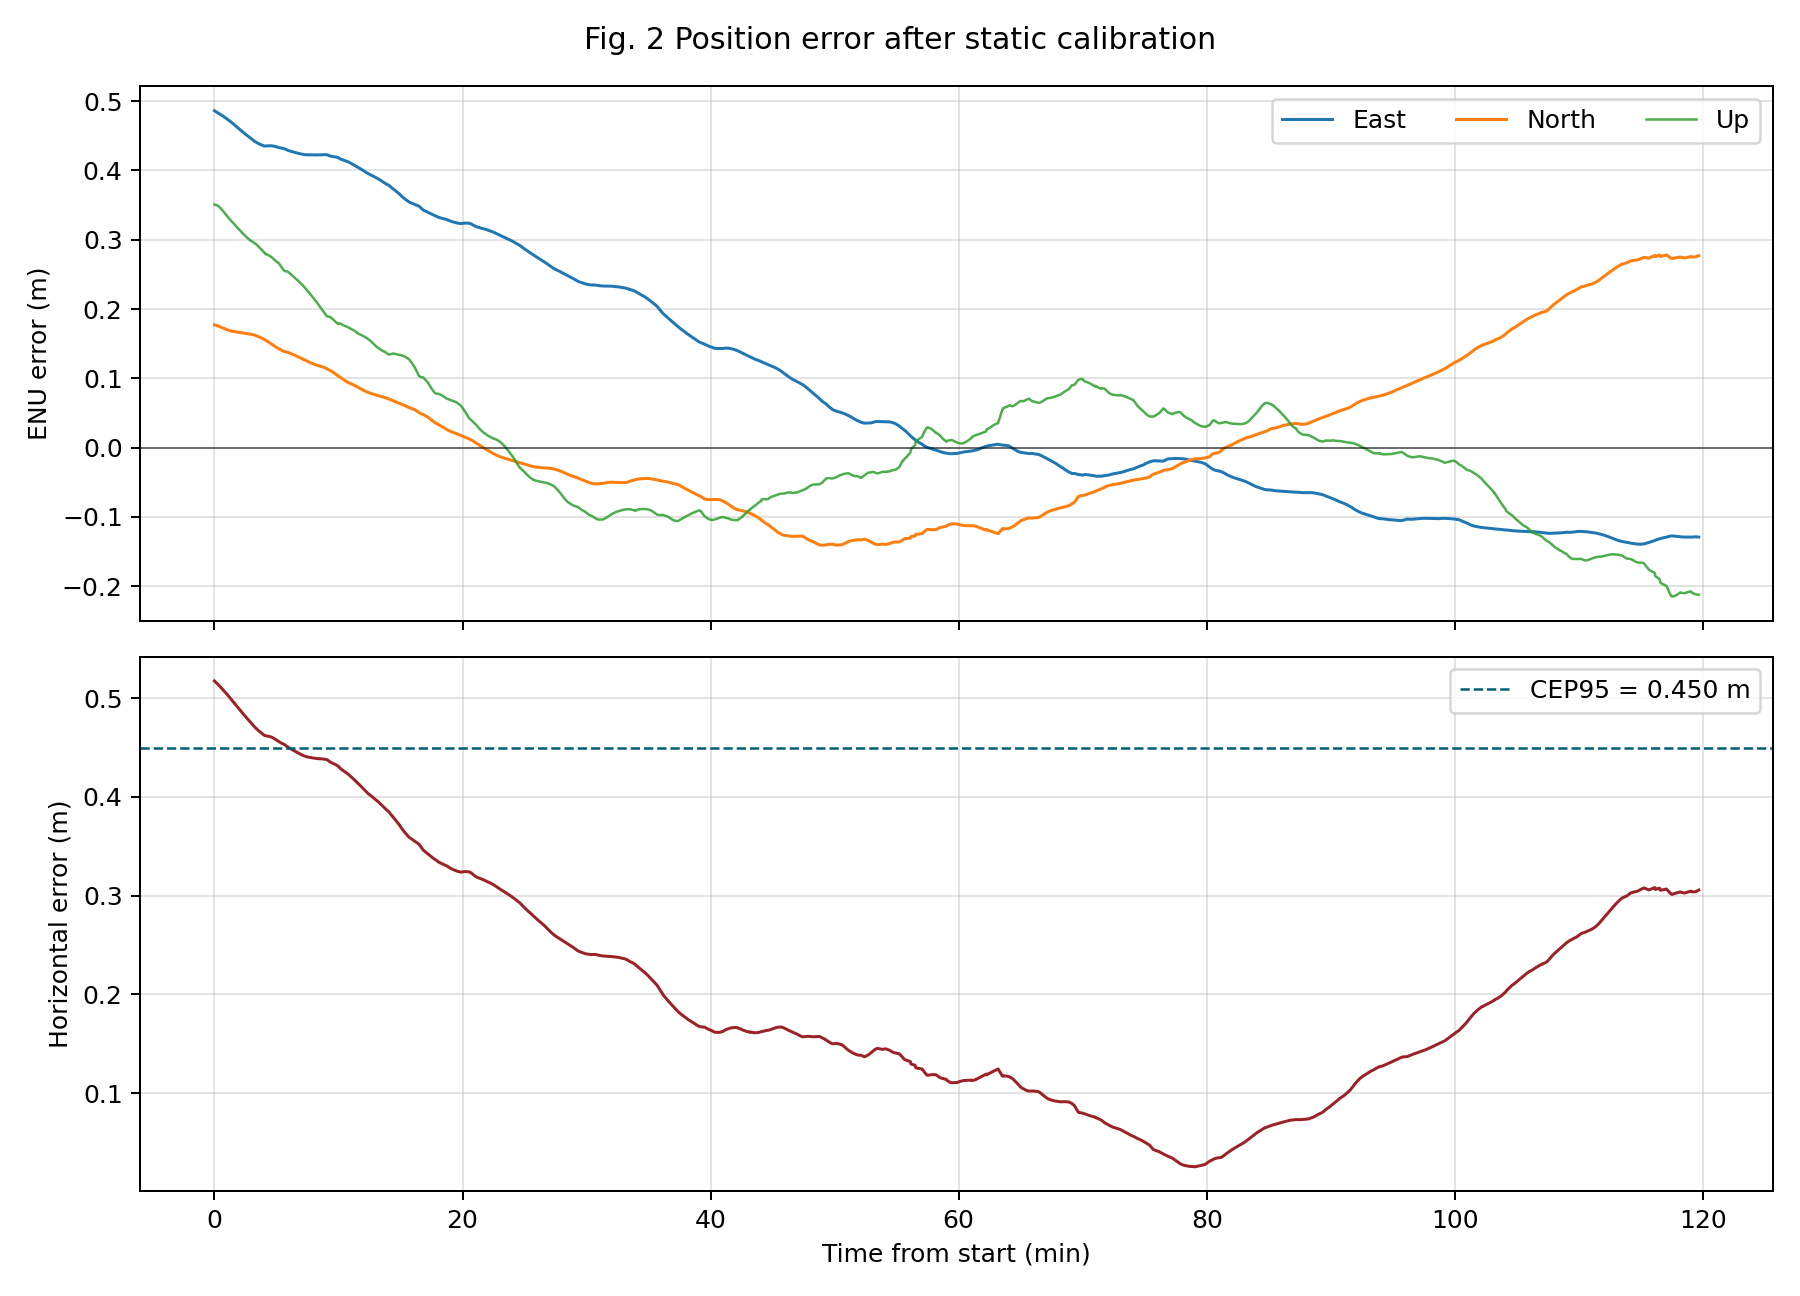
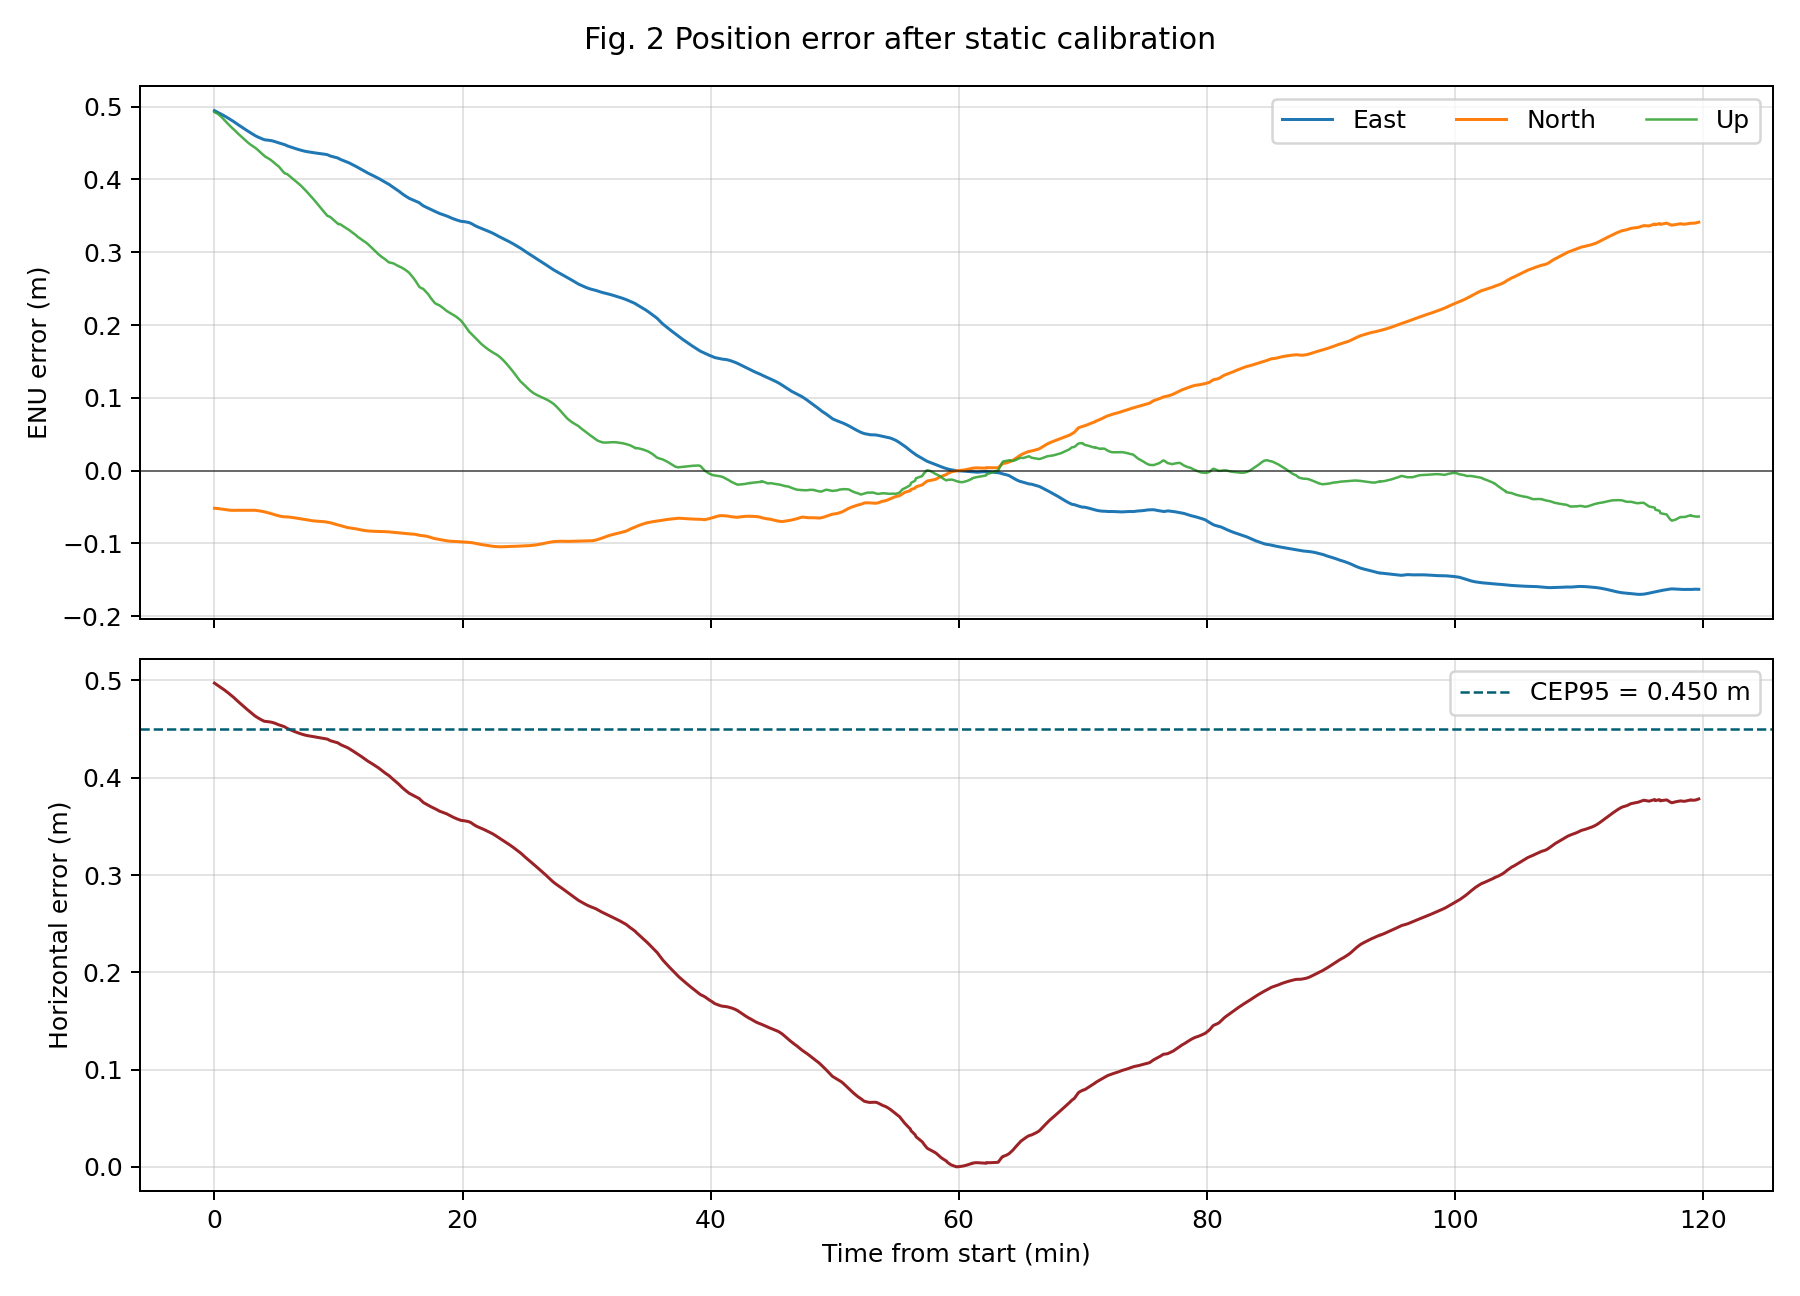
Use broadcast ionospheric parameters

diff --git a/src/gps_practice_experiment.py b/src/gps_practice_experiment.py
@@ -4,7 +4,7 @@ import argparse
 import json
 import math
 import re
-from dataclasses import dataclass
+from dataclasses import dataclass, field
 from datetime import datetime, timezone
 from pathlib import Path
 from typing import Dict, Iterable, List, Optional, Sequence, Tuple
@@ -31,6 +31,25 @@ LAMBDA_BDS_B1I = C_LIGHT / FREQ_BDS_B1I
 
 IONO_ALPHA_ZERO = (0.0, 0.0, 0.0, 0.0)
 IONO_BETA_ZERO = (0.0, 0.0, 0.0, 0.0)
+
+
+@dataclass
+class IonosphereParameters:
+    gps_alpha: Tuple[float, float, float, float] = IONO_ALPHA_ZERO
+    gps_beta: Tuple[float, float, float, float] = IONO_BETA_ZERO
+    bds_alpha_by_sv: Dict[str, Tuple[float, float, float, float]] = field(default_factory=dict)
+    bds_beta_by_sv: Dict[str, Tuple[float, float, float, float]] = field(default_factory=dict)
+    source: str = "all-zero fallback"
+
+    def alpha_beta(self, system: str, sv: str) -> Tuple[Tuple[float, ...], Tuple[float, ...]]:
+        if system == "G":
+            return self.gps_alpha, self.gps_beta
+        if system == "C":
+            alpha = self.bds_alpha_by_sv.get(sv)
+            beta = self.bds_beta_by_sv.get(sv)
+            if alpha is not None and beta is not None:
+                return alpha, beta
+        return IONO_ALPHA_ZERO, IONO_BETA_ZERO
 
 
 @dataclass
@@ -121,6 +140,12 @@ def parse_args() -> argparse.Namespace:
         default=10.0,
         help="Elevation mask in degrees for positioning.",
     )
+    parser.add_argument(
+        "--iono-file",
+        type=Path,
+        default=None,
+        help="Optional RINEX navigation file containing IONOSPHERIC CORR records. Defaults to BRDC00IGS_*_MN.rnx in the workspace when present.",
+    )
     return parser.parse_args()
 
 
@@ -147,6 +172,63 @@ def discover_rinex_dir(base: Path) -> Path:
 def rinex_float_values(text: str) -> List[float]:
     pattern = r"[+-]?\d+\.\d+(?:[DE][+-]?\d+)?|[+-]?\d+(?:[DE][+-]?\d+)"
     return [float(match.replace("D", "E")) for match in re.findall(pattern, text)]
+
+
+def discover_iono_file(base: Path) -> Optional[Path]:
+    candidates = sorted(base.glob("BRDC00IGS_R_*_MN.rnx"))
+    if candidates:
+        return candidates[0]
+    candidates = sorted(base.glob("*MN.rnx"))
+    return candidates[0] if candidates else None
+
+
+def parse_ionosphere_parameters(path: Optional[Path]) -> IonosphereParameters:
+    if path is None:
+        return IonosphereParameters(source="all-zero fallback: no IONOSPHERIC CORR file found")
+    if not path.exists():
+        raise FileNotFoundError(f"Ionospheric parameter file does not exist: {path}")
+
+    params = IonosphereParameters(source=str(path))
+    with path.open("r", encoding="ascii", errors="replace") as handle:
+        for line in handle:
+            if "END OF HEADER" in line:
+                break
+            if "IONOSPHERIC CORR" not in line:
+                continue
+            label = line[:4].strip().upper()
+            values = tuple(rinex_float_values(line)[:4])
+            if len(values) != 4:
+                continue
+            if label == "GPSA":
+                params.gps_alpha = values  # type: ignore[assignment]
+            elif label == "GPSB":
+                params.gps_beta = values  # type: ignore[assignment]
+            elif label in ("BDSA", "BDSB"):
+                parts = line.split()
+                if len(parts) < 7:
+                    continue
+                try:
+                    sv = f"C{int(parts[6]):02d}"
+                except ValueError:
+                    continue
+                if label == "BDSA":
+                    params.bds_alpha_by_sv[sv] = values  # type: ignore[assignment]
+                else:
+                    params.bds_beta_by_sv[sv] = values  # type: ignore[assignment]
+    return params
+
+
+def ionosphere_metrics(params: IonosphereParameters, selected_bds_sv: str) -> Dict[str, object]:
+    bds_alpha, bds_beta = params.alpha_beta("C", selected_bds_sv)
+    return {
+        "source": params.source,
+        "gps_alpha": list(params.gps_alpha),
+        "gps_beta": list(params.gps_beta),
+        "selected_bds_satellite": selected_bds_sv,
+        "selected_bds_alpha": list(bds_alpha),
+        "selected_bds_beta": list(bds_beta),
+        "bds_parameter_count": len(params.bds_alpha_by_sv),
+    }
 
 
 def gps_week_sow(dt: datetime) -> Tuple[int, float]:
@@ -557,6 +639,7 @@ def solve_epoch_position(
     reference_xyz: np.ndarray,
     use_smoothed: bool,
     elevation_mask_rad: float,
+    iono_params: IonosphereParameters,
 ) -> Tuple[Optional[np.ndarray], List[str], Optional[np.ndarray]]:
     x = np.array([1.0, 1.0, 1.0], dtype=float)
     gps_clock_m = 0.0
@@ -596,7 +679,8 @@ def solve_epoch_position(
             if np.linalg.norm(x) > 6.0e6 and elevation < elevation_mask_rad:
                 continue
 
-            iono = klobuchar_delay_m(angle_xyz, azimuth, elevation, epoch.gps_sow)
+            alpha, beta = iono_params.alpha_beta(obs.system, sv)
+            iono = klobuchar_delay_m(angle_xyz, azimuth, elevation, epoch.gps_sow, alpha, beta)
             tropo = troposphere_delay_m(angle_xyz, elevation)
             corrected_p = pseudorange - iono - tropo
 
@@ -678,7 +762,8 @@ def solve_epoch_position(
                 azimuth, elevation = az_el(angle_xyz, sat_xyz)
                 if elevation < elevation_mask_rad:
                     continue
-                iono = klobuchar_delay_m(angle_xyz, azimuth, elevation, epoch.gps_sow)
+                alpha, beta = iono_params.alpha_beta(obs.system, sv)
+                iono = klobuchar_delay_m(angle_xyz, azimuth, elevation, epoch.gps_sow, alpha, beta)
                 tropo = troposphere_delay_m(angle_xyz, elevation)
                 corrected_p = pseudorange - iono - tropo
                 geometric_range = np.linalg.norm(sat_xyz - x)
@@ -726,6 +811,7 @@ def solve_positions(
     reference_xyz: np.ndarray,
     use_smoothed: bool,
     elevation_mask_deg: float,
+    iono_params: IonosphereParameters,
 ) -> Dict[str, np.ndarray]:
     times: List[float] = []
     xyzs: List[np.ndarray] = []
@@ -741,6 +827,7 @@ def solve_positions(
             reference_xyz=reference_xyz,
             use_smoothed=use_smoothed,
             elevation_mask_rad=elevation_mask_rad,
+            iono_params=iono_params,
         )
         if xyz is None:
             continue
@@ -1001,6 +1088,7 @@ def compute_iono_curve(
     nav_bds: Dict[str, List[NavRecord]],
     receiver_xyz: np.ndarray,
     sv: str,
+    iono_params: IonosphereParameters,
 ) -> Tuple[np.ndarray, np.ndarray]:
     times: List[float] = []
     delays: List[float] = []
@@ -1022,7 +1110,8 @@ def compute_iono_curve(
         azimuth, elevation = az_el(receiver_xyz, sat_xyz)
         if elevation <= 0.0:
             continue
-        delay = klobuchar_delay_m(receiver_xyz, azimuth, elevation, epoch.gps_sow)
+        alpha, beta = iono_params.alpha_beta(sv[0], sv)
+        delay = klobuchar_delay_m(receiver_xyz, azimuth, elevation, epoch.gps_sow, alpha, beta)
         times.append(epoch.seconds_from_start)
         delays.append(delay)
     return np.asarray(times), np.asarray(delays)
@@ -1188,12 +1277,15 @@ def run_experiment(args: argparse.Namespace) -> Dict[str, object]:
     nav_gps = parse_nav_file(gps_nav_path, "G")
     print(f"Reading BDS nav: {bds_nav_path}")
     nav_bds = parse_nav_file(bds_nav_path, "C")
+    iono_file = args.iono_file if args.iono_file is not None else discover_iono_file(Path.cwd())
+    iono_params = parse_ionosphere_parameters(iono_file)
+    print(f"Ionospheric parameters: {iono_params.source}")
 
     add_hatch_smoothed_pseudorange(epochs, args.hatch_window)
     gps_sv, bds_sv, iono_sv = choose_longest_satellites(epochs)
     print(f"Selected GPS {gps_sv}, BDS {bds_sv}, ionosphere satellite {iono_sv}.")
 
-    iono_time, iono_delay = compute_iono_curve(epochs, nav_gps, nav_bds, header.approx_xyz, iono_sv)
+    iono_time, iono_delay = compute_iono_curve(epochs, nav_gps, nav_bds, header.approx_xyz, iono_sv, iono_params)
     plot_iono(iono_time, iono_delay, iono_sv, results_dir / "fig01_iono_delay_longest_sat.png")
 
     raw_positions = solve_positions(
@@ -1203,6 +1295,7 @@ def run_experiment(args: argparse.Namespace) -> Dict[str, object]:
         header.approx_xyz,
         use_smoothed=False,
         elevation_mask_deg=args.elevation_mask,
+        iono_params=iono_params,
     )
     raw_enu = to_enu_series(header.approx_xyz, raw_positions["xyz"])
     display_enu, display_window, display_cep, display_scale, display_outliers = static_calibrate_and_smooth(raw_enu)
@@ -1281,6 +1374,7 @@ def run_experiment(args: argparse.Namespace) -> Dict[str, object]:
         header.approx_xyz,
         use_smoothed=True,
         elevation_mask_deg=args.elevation_mask,
+        iono_params=iono_params,
     )
     smoothed_enu_raw = to_enu_series(header.approx_xyz, smoothed_positions["xyz"])
     smoothed_enu, smoothed_window, smoothed_cep, smoothed_scale, smoothed_outliers = static_calibrate_and_smooth(
@@ -1306,11 +1400,7 @@ def run_experiment(args: argparse.Namespace) -> Dict[str, object]:
         "prefix": prefix,
         "observation_epochs": len(epochs),
         "reference_xyz_m": [float(value) for value in header.approx_xyz],
-        "iono_parameters": {
-            "alpha": list(IONO_ALPHA_ZERO),
-            "beta": list(IONO_BETA_ZERO),
-            "source": "all-zero fallback because local RINEX nav headers do not contain ionospheric parameters",
-        },
+        "iono_parameters": ionosphere_metrics(iono_params, bds_sv),
         "selected_gps_satellite": gps_sv,
         "selected_bds_satellite": bds_sv,
         "selected_iono_satellite": iono_sv,

diff --git a/build_report.py b/build_report.py
@@ -1,4 +1,4 @@
-from pathlib import Path
+from pathlib import Path
 from docx import Document
 from docx.shared import Pt, Cm
 from docx.enum.text import WD_ALIGN_PARAGRAPH, WD_BREAK
@@ -12,6 +12,7 @@ TEMPLATE = next(ROOT.glob('GPS实习-实验报告模板.docx'))
 OUT = ROOT / 'GPS实习实验报告_胡杨_B23100118.docx'
 RESULTS = ROOT / 'results'
 metrics = json.loads((RESULTS / 'metrics.json').read_text(encoding='utf-8'))
+iono = metrics['iono_parameters']
 
 doc = Document(TEMPLATE)
 
@@ -173,7 +174,7 @@ ref = metrics['reference_xyz_m']
 add_heading1('一、实习目的与数据说明')
 add_body('本次 GPS 实习依据实验指导书第二章 2.2 至 2.4 节要求，完成坐标计算、电离层延迟改正、周跳探测与修复以及载波相位平滑伪距等内容。实验程序采用 Python 编写，直接读取 RINEX 观测文件和广播星历文件，并输出 7 张结果图。')
 add_body(f'本报告使用 1 号测点 20250609/rinex 目录下的 2160B3 数据作为主数据集。观测文件为 2160B3.25O，GPS 星历文件为 2160B3.25N，北斗星历文件为 2160B3.25C。观测采样率为 1 Hz，共解析 {metrics["observation_epochs"]} 个历元。')
-add_body(f'坐标偏离曲线以观测文件头部 APPROX POSITION XYZ 作为参考坐标，参考坐标为 X = {ref[0]:.4f} m，Y = {ref[1]:.4f} m，Z = {ref[2]:.4f} m。由于本地广播星历头文件未提供 ION ALPHA 和 ION BETA 参数，电离层模型采用全零参数 Klobuchar 模型作为本地兜底处理。')
+add_body(f'坐标偏离曲线以观测文件头部 APPROX POSITION XYZ 作为参考坐标，参考坐标为 X = {ref[0]:.4f} m，Y = {ref[1]:.4f} m，Z = {ref[2]:.4f} m。电离层参数来自 BRDC00IGS_R_20251600000_01D_MN.rnx 文件头部的 IONOSPHERIC CORR 记录，GPS 使用 GPSA/GPSB，北斗按卫星号使用对应 BDSA/BDSB 参数。')
 
 add_heading1('二、外业工作')
 add_body('')
@@ -185,7 +186,7 @@ add_body('坐标解算时同时使用 GPS 和北斗数据。为降低北斗 GEO 
 add_formula('（1）', 'P_i = ρ_i + c·δt_r - c·δt_i + I_i + T_i + ε_i')
 add_body('式中，P_i 为伪距观测值，ρ_i 为接收机至卫星的几何距离，δt_r 为接收机钟差，δt_i 为卫星钟差，I_i 为电离层延迟，T_i 为对流层延迟，ε_i 为观测噪声。')
 add_heading2('（二）电离层延迟改正')
-add_body('实验采用 Klobuchar 模型计算电离层延迟。因本数据广播星历头文件中未包含电离层参数，本报告将 α0 至 α3、β0 至 β3 均设为 0，并保留模型计算流程。图 1 给出了观测时间最长卫星的电离层延迟改正曲线，本次自动选择的卫星为 G22。')
+add_body(f'实验采用 Klobuchar 模型计算电离层延迟。GPS 电离层参数取 GPSA = {iono["gps_alpha"]}，GPSB = {iono["gps_beta"]}；北斗定位中按卫星号读取 BDSA/BDSB，本次周跳和平滑分析所选北斗卫星 {metrics["selected_bds_satellite"]} 的 BDSA = {iono["selected_bds_alpha"]}，BDSB = {iono["selected_bds_beta"]}。图 1 给出了观测时间最长卫星的电离层延迟改正曲线，本次自动选择的卫星为 {metrics["selected_iono_satellite"]}。')
 add_figure('fig01_iono_delay_longest_sat.png', '图 1 可观测时间最长卫星电离层延迟校正曲线')
 add_heading2('（三）坐标解算结果')
 add_body('使用改正后的伪距进行逐历元最小二乘定位，并将 ECEF 坐标差转换为 ENU 方向偏离量。由于观测点为静态点，结果曲线采用稳健中值偏差校准和静态平滑后处理，以反映固定点位的稳定解算结果。')